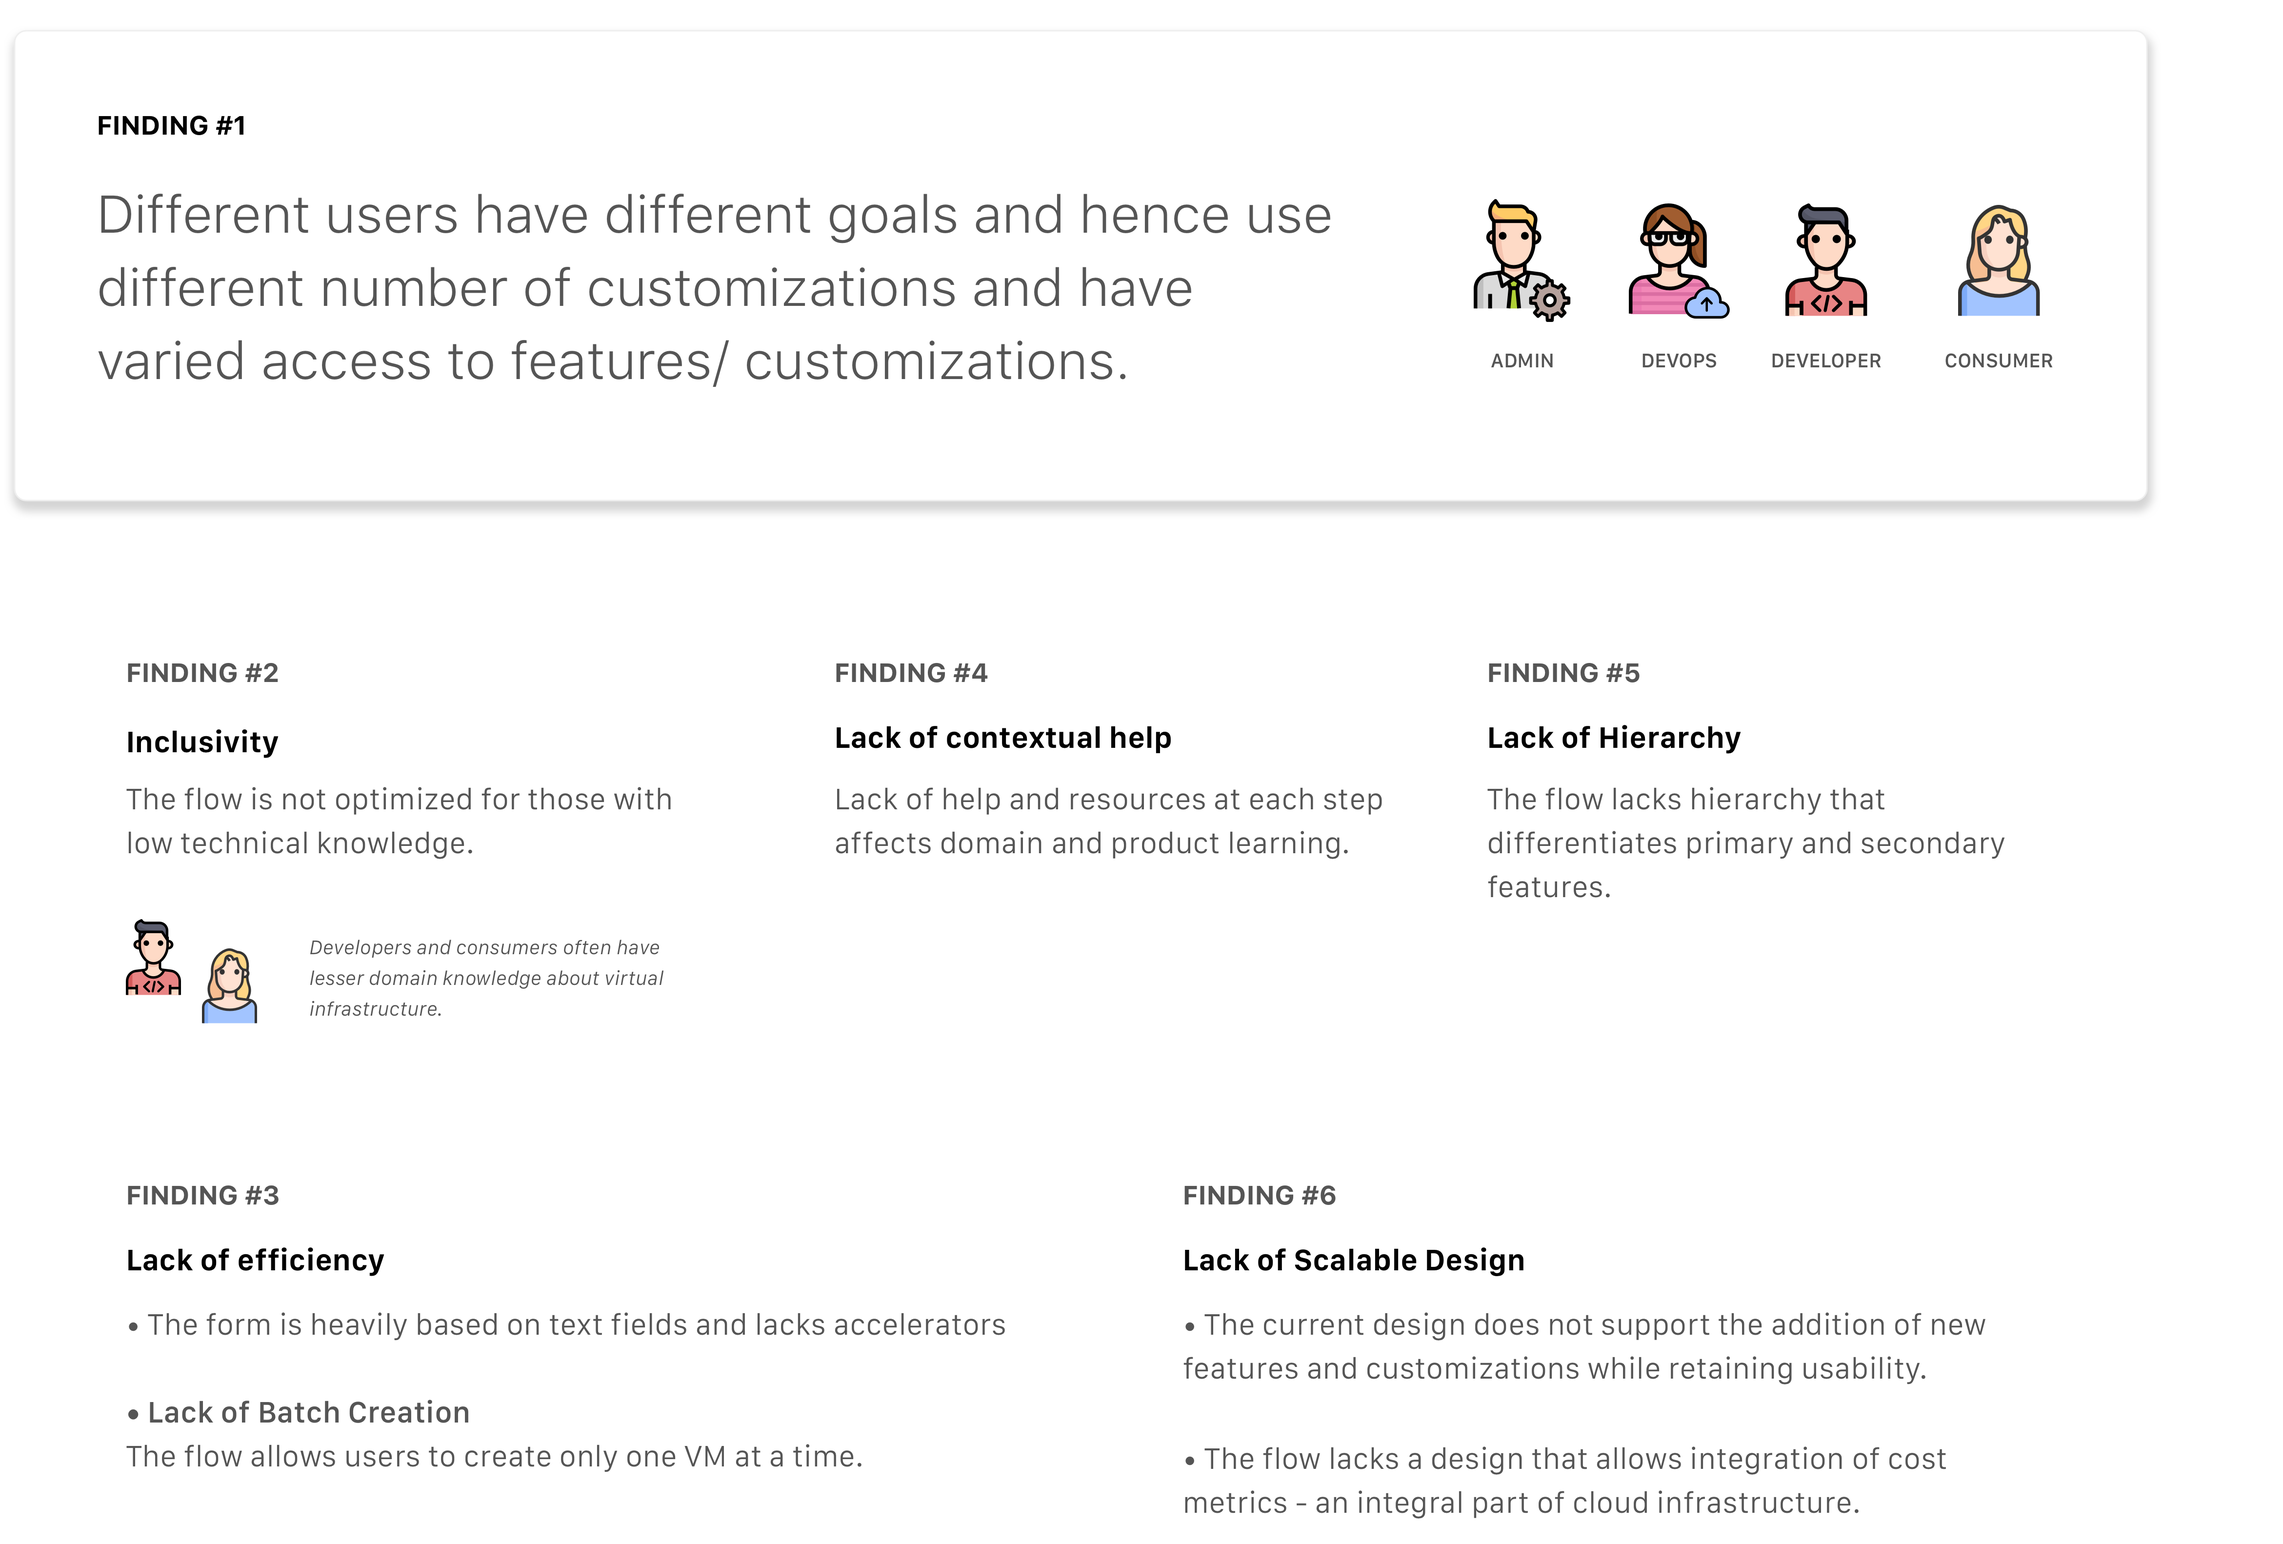
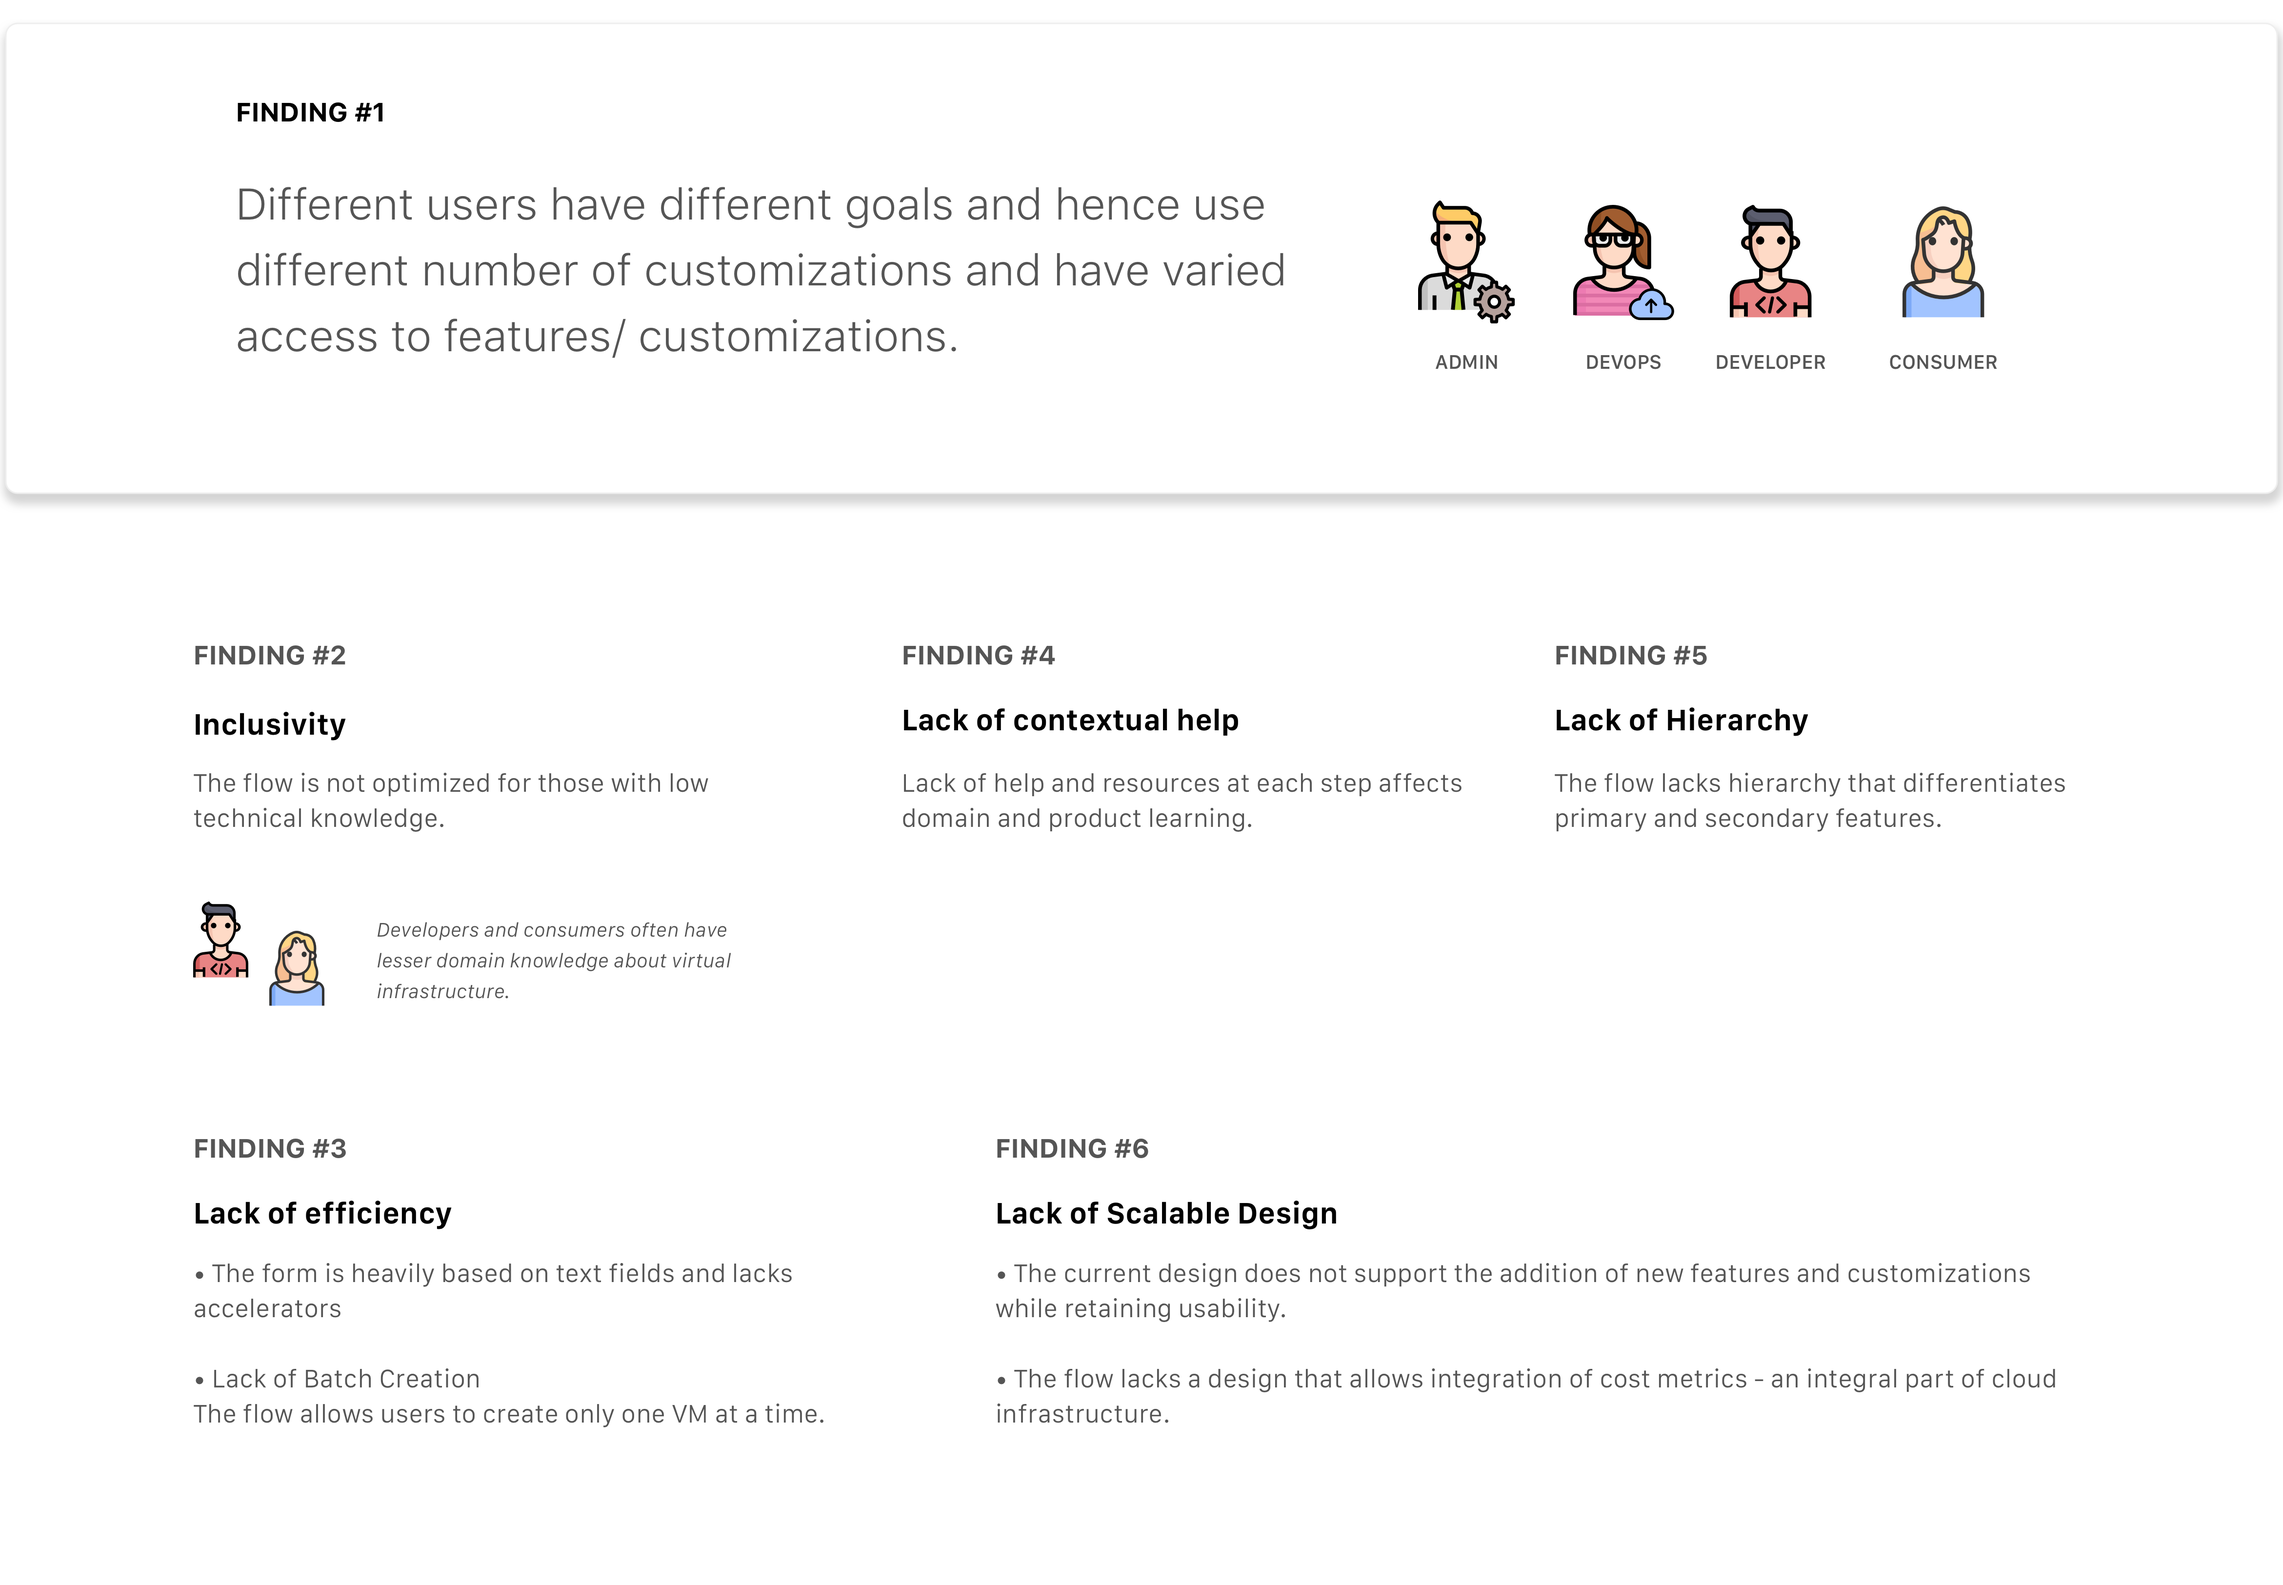
crap

diff --git a/nutanix.html b/nutanix.html
@@ -216,7 +216,7 @@
 
 
     <div id="section-x-block" class="row col-12 container d-flex align-items-start justify-content-center">
-            <div class="col-10 text-box-inside">
+            <div class="col-11 text-box-inside">
                   <div class="process">
                     <img src='nutanix/n7_1.png' alt = "project-image.png" class='process-image-no-text'>
                   </div>
